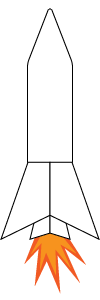
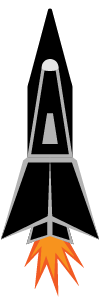
add new rocket design and canvas size

diff --git a/public/js/canvas.js b/public/js/canvas.js
@@ -1,1 +1,1 @@
-const canvas={init:function(){},collision:{check:function(){}},render:{func:function(e){var n=1;void 0!=canvas.render.lastTimeStamp&&(n=(e-canvas.render.lastTimeStamp)/17);var t=document.getElementsByTagName("canvas")[0].getContext("2d");t.clearRect(0,0,500,500);const a=document.getElementById("rocket");t.rotate(0);for(const e in playersData){const i=playersData[e];if(void 0!=i.orientation){const e=i.orientation.position;i.orientation.velocity;let o=i.orientation.rotation;const r=3.141592653*(o-90)*2/360,s=.2*n;e.x+=Math.cos(r)*s,e.y+=Math.sin(r)*s,e.x>100?e.x=100:e.x<0&&(e.x=0),e.y>100?e.y=100:e.y<0&&(e.y=0),console.log(e,o);const m=25,c=75,d=e.x/100*500-m/2,u=e.y/100*500-c/2;o*=Math.PI/180,t.translate(d,u),t.rotate(o),t.drawImage(a,-m/2,-c/2,m,c),t.rotate(-o),t.translate(-d,-u)}}"requestAnimationFrame"in window?canvas.render.animationFrameRequest=window.requestAnimationFrame(canvas.render.func):canvas.render.animationTimer=setTimeout(canvas.render.func,30,(new Date).getTime())},start:function(){void 0==this.animationFrameRequest&&("requestAnimationFrame"in window?this.animationFrameRequest=window.requestAnimationFrame(this.func):canvas.render.animationTimer=setTimeout(canvas.render.func,30,(new Date).getTime()))},stop:function(){void 0!=this.animationFrameRequest?(window.cancelAnimationFrame(this.animationFrameRequest),delete this.animationFrameRequest):void 0!=this.animationTimer&&(clearTimeout(this.animationTimer),delete this.animationTimer)}}};canvas.init();
+const canvas={init:function(){},collision:{check:function(){}},render:{func:function(t){var e=1;void 0!=canvas.render.lastTimeStamp&&(e=(t-canvas.render.lastTimeStamp)/17);const n=document.getElementsByTagName("canvas")[0],a=n.width,i=n.height;var o=n.getContext("2d");o.clearRect(0,0,a,i),o.fillStyle="rgb(230,230,230)",o.fillRect(0,0,a,i);const r=document.getElementById("rocket");o.rotate(0);for(const t in playersData){const n=playersData[t];if(void 0!=n.orientation){const t=n.orientation.position;n.orientation.velocity;let s=n.orientation.rotation;const m=3.141592653*(s-90)*2/360,c=.2*e;t.x+=Math.cos(m)*c,t.y+=Math.sin(m)*c,t.x>100?t.x=100:t.x<0&&(t.x=0),t.y>100?t.y=100:t.y<0&&(t.y=0);const d=25,u=75,l=t.x/100*(a-80)+40,v=t.y/100*(i-80)+40;s*=Math.PI/180,o.translate(l,v),o.rotate(s),o.drawImage(r,-d/2,-u/2,d,u),o.rotate(-s),o.translate(-l,-v)}}"requestAnimationFrame"in window?canvas.render.animationFrameRequest=window.requestAnimationFrame(canvas.render.func):canvas.render.animationTimer=setTimeout(canvas.render.func,30,(new Date).getTime())},start:function(){void 0==this.animationFrameRequest&&("requestAnimationFrame"in window?this.animationFrameRequest=window.requestAnimationFrame(this.func):canvas.render.animationTimer=setTimeout(canvas.render.func,30,(new Date).getTime()))},stop:function(){void 0!=this.animationFrameRequest?(window.cancelAnimationFrame(this.animationFrameRequest),delete this.animationFrameRequest):void 0!=this.animationTimer&&(clearTimeout(this.animationTimer),delete this.animationTimer)}}};canvas.init();

diff --git a/builder/js/canvas.js b/builder/js/canvas.js
@@ -16,15 +16,25 @@ const canvas = {
 
             const canvasElement = document.getElementsByTagName("canvas")[0];
 
+            const 
+                canvasWidth = canvasElement.width,
+                canvasHeight = canvasElement.height
+            ;
 
             var context = canvasElement.getContext('2d');
-            context.clearRect(0, 0, 500, 500);
+            context.clearRect(0, 0, canvasWidth, canvasHeight);
 
-            // context.fillStyle = "black";
+            context.fillStyle = "rgb(230,230,230)";
 
+
+            context.fillRect(0, 0, canvasWidth, canvasHeight);
+
+            // context.rect(40, 40, canvasWidth - 80, canvasHeight - 80);
+            // context.stroke(); 
+            
             // context.strokeStyle = "black";
 
-            // context.fillRect(0, 0, 500, 500);
+            
 
             const rocketElement = document.getElementById("rocket");
             // console.log(rocketElement);
@@ -67,7 +77,7 @@ const canvas = {
                         position.y = 0;
                     }
 
-                    console.log(position, rotation);
+                    
 
                     const 
                         imageSizeX = 50 * rocketScale, 
@@ -75,8 +85,8 @@ const canvas = {
                     ;
 
                     const 
-                        x = position.x / 100 * 500 - (imageSizeX / 2), 
-                        y = position.y / 100 * 500 - (imageSizeY / 2)
+                        x = position.x / 100 * (canvasWidth - 80) + 40, 
+                        y = position.y / 100 * (canvasHeight - 80)  + 40
                     ;
                     
 

diff --git a/public/js/canvas-debug.js b/public/js/canvas-debug.js
@@ -16,15 +16,25 @@ const canvas = {
 
             const canvasElement = document.getElementsByTagName("canvas")[0];
 
+            const 
+                canvasWidth = canvasElement.width,
+                canvasHeight = canvasElement.height
+            ;
 
             var context = canvasElement.getContext('2d');
-            context.clearRect(0, 0, 500, 500);
+            context.clearRect(0, 0, canvasWidth, canvasHeight);
 
-            // context.fillStyle = "black";
+            context.fillStyle = "rgb(230,230,230)";
 
+
+            context.fillRect(0, 0, canvasWidth, canvasHeight);
+
+            // context.rect(40, 40, canvasWidth - 80, canvasHeight - 80);
+            // context.stroke(); 
+            
             // context.strokeStyle = "black";
 
-            // context.fillRect(0, 0, 500, 500);
+            
 
             const rocketElement = document.getElementById("rocket");
             // console.log(rocketElement);
@@ -67,7 +77,7 @@ const canvas = {
                         position.y = 0;
                     }
 
-                    console.log(position, rotation);
+                    
 
                     const 
                         imageSizeX = 50 * rocketScale, 
@@ -75,8 +85,8 @@ const canvas = {
                     ;
 
                     const 
-                        x = position.x / 100 * 500 - (imageSizeX / 2), 
-                        y = position.y / 100 * 500 - (imageSizeY / 2)
+                        x = position.x / 100 * (canvasWidth - 80) + 40, 
+                        y = position.y / 100 * (canvasHeight - 80)  + 40
                     ;
                     
 
